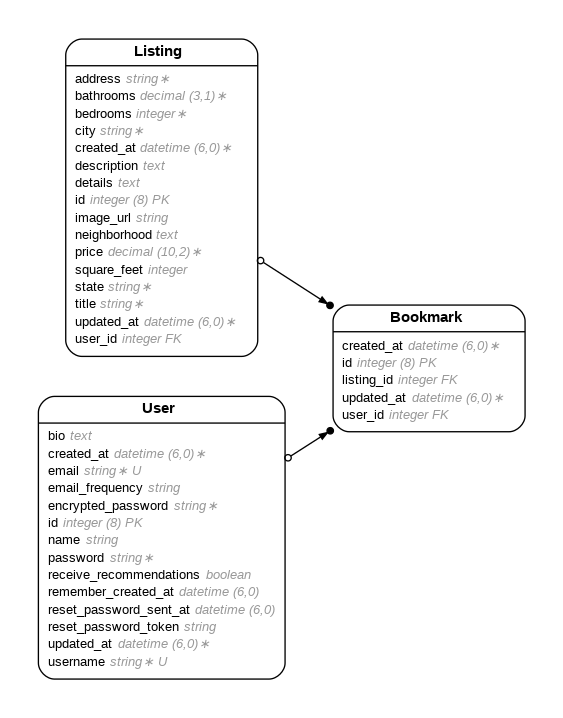
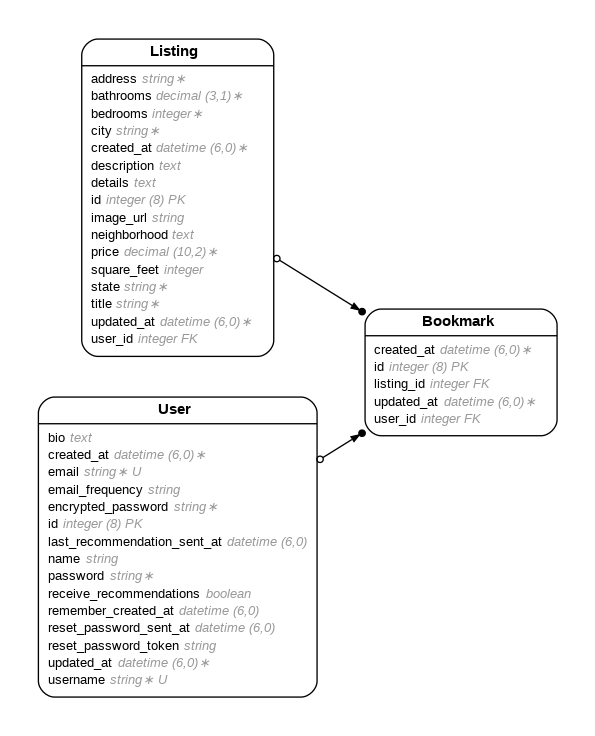
updated schema for recommendations

Changed region(s): [[0.0604, 0.5209, 0.5435, 0.9499], [0.0906, 0.0306, 0.5435, 0.4903], [0.5435, 0.3983, 0.9361, 0.6128]]

diff --git a/db/schema.rb b/db/schema.rb
@@ -10,7 +10,7 @@
 #
 # It's strongly recommended that you check this file into your version control system.
 
-ActiveRecord::Schema[8.0].define(version: 2026_02_10_003633) do
+ActiveRecord::Schema[8.0].define(version: 2026_05_15_160000) do
   # These are extensions that must be enabled in order to support this database
   enable_extension "pg_catalog.plpgsql"
 
@@ -19,6 +19,33 @@ ActiveRecord::Schema[8.0].define(version: 2026_02_10_003633) do
     t.integer "listing_id"
     t.datetime "created_at", null: false
     t.datetime "updated_at", null: false
+  end
+
+  create_table "chat_messages", force: :cascade do |t|
+    t.bigint "chat_session_id", null: false
+    t.string "role"
+    t.text "content"
+    t.datetime "created_at", null: false
+    t.datetime "updated_at", null: false
+    t.index ["chat_session_id"], name: "index_chat_messages_on_chat_session_id"
+  end
+
+  create_table "chat_sessions", force: :cascade do |t|
+    t.bigint "user_id", null: false
+    t.datetime "started_at"
+    t.datetime "ended_at"
+    t.datetime "created_at", null: false
+    t.datetime "updated_at", null: false
+    t.index ["user_id"], name: "index_chat_sessions_on_user_id"
+  end
+
+  create_table "listing_embeddings", force: :cascade do |t|
+    t.bigint "listing_id", null: false
+    t.jsonb "embedding", default: [], null: false
+    t.text "content", null: false
+    t.datetime "created_at", null: false
+    t.datetime "updated_at", null: false
+    t.index ["listing_id"], name: "index_listing_embeddings_on_listing_id", unique: true
   end
 
   create_table "listings", force: :cascade do |t|
@@ -195,10 +222,15 @@ ActiveRecord::Schema[8.0].define(version: 2026_02_10_003633) do
     t.string "name"
     t.text "bio"
     t.string "email_frequency"
+    t.datetime "last_recommendation_sent_at"
     t.index ["email"], name: "index_users_on_email", unique: true
+    t.index ["last_recommendation_sent_at"], name: "index_users_on_last_recommendation_sent_at"
     t.index ["reset_password_token"], name: "index_users_on_reset_password_token", unique: true
   end
 
+  add_foreign_key "chat_messages", "chat_sessions"
+  add_foreign_key "chat_sessions", "users"
+  add_foreign_key "listing_embeddings", "listings"
   add_foreign_key "solid_queue_blocked_executions", "solid_queue_jobs", column: "job_id", on_delete: :cascade
   add_foreign_key "solid_queue_claimed_executions", "solid_queue_jobs", column: "job_id", on_delete: :cascade
   add_foreign_key "solid_queue_failed_executions", "solid_queue_jobs", column: "job_id", on_delete: :cascade

diff --git a/app/models/user.rb b/app/models/user.rb
@@ -2,25 +2,27 @@
 #
 # Table name: users
 #
-#  id                      :bigint           not null, primary key
-#  bio                     :text
-#  email                   :string
-#  email_frequency         :string
-#  encrypted_password      :string           default(""), not null
-#  name                    :string
-#  password                :string
-#  receive_recommendations :boolean
-#  remember_created_at     :datetime
-#  reset_password_sent_at  :datetime
-#  reset_password_token    :string
-#  username                :string
-#  created_at              :datetime         not null
-#  updated_at              :datetime         not null
+#  id                          :bigint           not null, primary key
+#  bio                         :text
+#  email                       :string
+#  email_frequency             :string
+#  encrypted_password          :string           default(""), not null
+#  last_recommendation_sent_at :datetime
+#  name                        :string
+#  password                    :string
+#  receive_recommendations     :boolean
+#  remember_created_at         :datetime
+#  reset_password_sent_at      :datetime
+#  reset_password_token        :string
+#  username                    :string
+#  created_at                  :datetime         not null
+#  updated_at                  :datetime         not null
 #
 # Indexes
 #
-#  index_users_on_email                 (email) UNIQUE
-#  index_users_on_reset_password_token  (reset_password_token) UNIQUE
+#  index_users_on_email                        (email) UNIQUE
+#  index_users_on_last_recommendation_sent_at  (last_recommendation_sent_at)
+#  index_users_on_reset_password_token         (reset_password_token) UNIQUE
 #
 class User < ApplicationRecord
   devise :database_authenticatable, :registerable,

diff --git a/config/environments/development.rb b/config/environments/development.rb
@@ -3,13 +3,12 @@ require "active_support/core_ext/integer/time"
 Rails.application.configure do
 
   config.action_mailer.delivery_method = :smtp
-  config.action_mailer.smtp_settings = {...}
-  config.action_mailer.default_url_options = { host: ENV["APP_HOST"] || "localhost", port: 3000 }
+  config.action_mailer.smtp_settings = Hash.new
   # Allow server to be hosted on any URL
   config.hosts.clear
   # Allow better_errors to work in online IDE
-  config.web_console.allowed_ips = "0.0.0.0/0.0.0.0"
-  BetterErrors::Middleware.allow_ip! "0.0.0.0/0.0.0.0"
+  config.web_console.allowed_ips = "0.0.0.0/0"
+  BetterErrors::Middleware.allow_ip! "0.0.0.0/0"
   # Auto-connect to database when rails console opens
   console do
     ActiveRecord::Base.connection

diff --git a/app/jobs/send_recommendation_email_job.rb b/app/jobs/send_recommendation_email_job.rb
@@ -1,0 +1,20 @@
+class SendRecommendationEmailJob < ApplicationJob
+  queue_as :default
+
+  def perform(user_id)
+    user = User.find_by(id: user_id)
+    return unless user&.receive_recommendations? && user.email_frequency.present?
+    return unless ENV["ANTHROPIC_API_KEY"].present?
+
+    mail = RecommendationMailer.weekly_recommendations(user)
+    if mail.present?
+      mail.deliver_now
+      user.update!(last_recommendation_sent_at: Time.current)
+    else
+      Rails.logger.info("No recommendation email generated for user=#{user.email}")
+    end
+  rescue => e
+    Rails.logger.error("SendRecommendationEmailJob failed for user_id=#{user_id}: #{e.class}: #{e.message}")
+    Rails.logger.error(e.backtrace.join("\n"))
+  end
+end

diff --git a/app/jobs/schedule_recommendation_emails_job.rb b/app/jobs/schedule_recommendation_emails_job.rb
@@ -1,0 +1,14 @@
+class ScheduleRecommendationEmailsJob < ApplicationJob
+  queue_as :default
+
+  def perform(date = Date.current)
+    User.recommendation_recipients.find_each do |user|
+      next unless user.due_for_recommendations?(date)
+
+      SendRecommendationEmailJob.perform_later(user.id)
+    end
+  rescue => e
+    Rails.logger.error("ScheduleRecommendationEmailsJob failed: #{e.class}: #{e.message}")
+    Rails.logger.error(e.backtrace.join("\n"))
+  end
+end

diff --git a/db/migrate/20260515160000_add_last_recommendation_sent_at_to_users.rb b/db/migrate/20260515160000_add_last_recommendation_sent_at_to_users.rb
@@ -1,0 +1,6 @@
+class AddLastRecommendationSentAtToUsers < ActiveRecord::Migration[8.0]
+  def change
+    add_column :users, :last_recommendation_sent_at, :datetime
+    add_index :users, :last_recommendation_sent_at
+  end
+end
